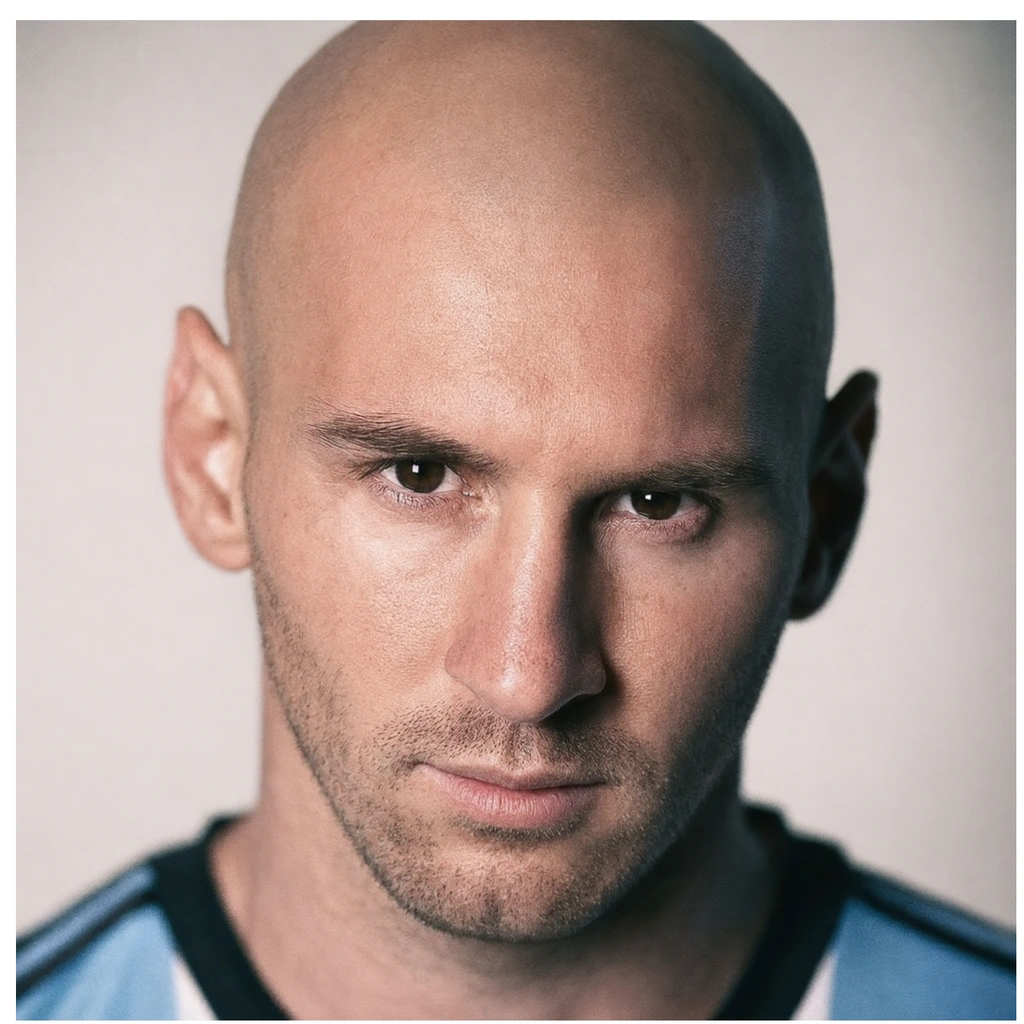
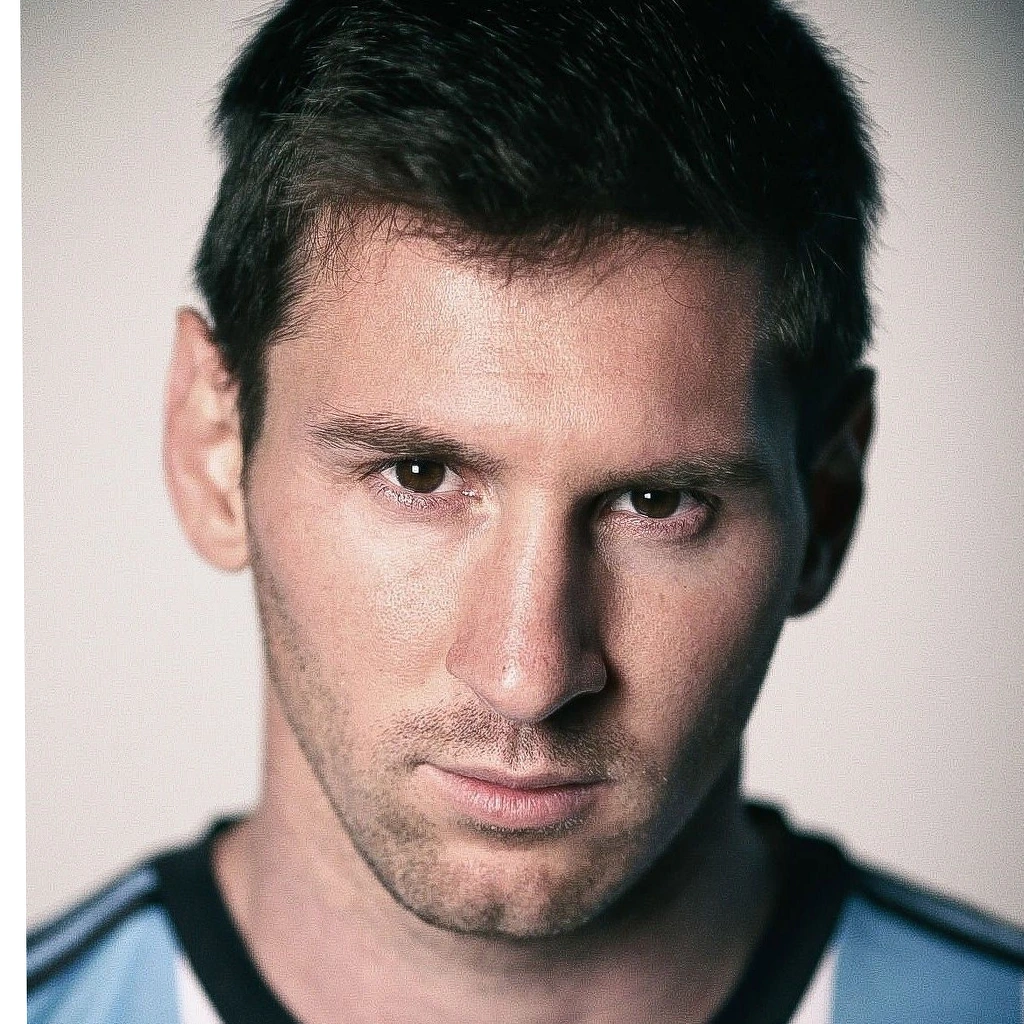
Restore Messi original input portrait and make viewer UI English

diff --git a/index.html b/index.html
@@ -9,10 +9,10 @@
   <link rel="icon" href="favicon.svg" type="image/svg+xml">
   <link rel="stylesheet" href="styles.css?v=viewer-recovery7">
   <link rel="stylesheet" href="assets/showcase/showcase.css?v=card-caption4">
-  <script type="module" src="assets/showcase/showcase.js?v=priority-collections-1"></script>
+  <script type="module" src="assets/showcase/showcase.js?v=english-messi-1"></script>
   <link rel="preload" href="assets/cases/case-02/input.webp" as="image">
   <script src="site-config.js" defer></script>
-  <script src="app.js?v=viewer-recovery7" defer></script>
+  <script src="app.js?v=english-messi-1" defer></script>
 </head>
 <body id="top" class="calibration-page">
   <a class="skip-link" href="#main">Skip to content</a>
@@ -94,7 +94,7 @@
       <div class="asset-strip"><div id="assetCases" class="asset-cases" role="group" aria-label="Select 3D model"></div></div>
       <div class="asset-layout">
         <div class="viewer-column">
-          <div class="pane-title"><div class="renderer-switch" role="group" aria-label="Rendering mode"><button type="button" data-render-mode="pathtraced" aria-pressed="true" title="Progressive path tracing">PT</button><button type="button" data-render-mode="raster" aria-pressed="false" title="Real-time raster rendering">实时渲染</button></div><div class="viewer-heading-actions"><strong id="paneRendererTitle">路径追踪 PT</strong><button id="reloadViewer" title="Reload the current model, textures and renderer while keeping the view">↻ Reload viewer</button></div></div>
+          <div class="pane-title"><div class="renderer-switch" role="group" aria-label="Rendering mode"><button type="button" data-render-mode="pathtraced" aria-pressed="true" title="Progressive path tracing">PT</button><button type="button" data-render-mode="raster" aria-pressed="false" title="Real-time raster rendering">Real-time</button></div><div class="viewer-heading-actions"><strong id="paneRendererTitle">Path tracing · PT</strong><button id="reloadViewer" title="Reload the current model, textures and renderer while keeping the view">↻ Reload viewer</button></div></div>
           <div id="viewerFrame" class="viewer-frame" data-state="idle">
             <div class="viewer-top"><span class="viewer-badge"><span class="status-dot"></span><span id="viewerTitle">Case 02</span></span><span id="renderModeBadge" class="viewer-badge">PROGRESSIVE / PT</span></div>
             <div id="viewerCanvas" class="viewer-canvas" role="img" aria-label="Interactive 3D face. Drag to orbit, pinch or scroll to zoom. Arrow keys rotate the model, plus and minus zoom." tabindex="0"></div>
@@ -103,14 +103,14 @@
           </div>
           <div class="material-modes" role="group" aria-label="3D material mode"><button data-material="full" aria-pressed="true"><span class="material-dot color-dot"></span>Appearance</button><button data-material="geometry" aria-pressed="false"><span class="material-dot gray-dot"></span>Gray geometry</button><button data-material="wireframe" aria-pressed="false"><span class="material-dot wire-dot"></span>Wireframe</button></div>
           <div class="environment-panel">
-            <div class="environment-heading"><span class="mono-label">LIGHTING / 光照环境</span><span id="environmentStatus" class="environment-status">原始输入光照</span></div>
+            <div class="environment-heading"><span class="mono-label">LIGHTING</span><span id="environmentStatus" class="environment-status">Source lighting</span></div>
             <div id="environmentOptions" class="environment-options" role="group" aria-label="Lighting environment">
-              <button type="button" class="environment-option source-option" data-environment="source" aria-pressed="true"><span class="environment-swatch source-swatch" aria-hidden="true"><span></span></span><span class="environment-name">原始光照<small>Blender 输入</small></span></button>
+              <button type="button" class="environment-option source-option" data-environment="source" aria-pressed="true"><span class="environment-swatch source-swatch" aria-hidden="true"><span></span></span><span class="environment-name">Source lighting<small>Blender source</small></span></button>
             </div>
             <div id="environmentAdjust" class="environment-adjust" hidden>
-              <label for="environmentIntensity">强度 <output id="environmentIntensityValue">1.0×</output></label>
+              <label for="environmentIntensity">Intensity <output id="environmentIntensityValue">1.0×</output></label>
               <input id="environmentIntensity" type="range" min="0" max="3" step="0.05" value="1">
-              <label for="environmentRotation">旋转 <output id="environmentRotationValue">0°</output></label>
+              <label for="environmentRotation">Rotation <output id="environmentRotationValue">0°</output></label>
               <input id="environmentRotation" type="range" min="-180" max="180" step="5" value="0">
             </div>
           </div>
@@ -119,12 +119,12 @@
           <p id="sourceViewStatus" class="viewer-note">Switch between PT and real-time rendering without changing the camera.</p>
         </div>
         <aside class="input-photo-column">
-          <div class="input-photo-heading"><span>INPUT PORTRAIT</span><strong>角色输入</strong></div>
+          <div class="input-photo-heading"><span>INPUT PORTRAIT</span><strong>Source portrait</strong></div>
           <figure class="input-photo"><img id="assetInput" src="assets/cases/case-02/input.webp" alt="Case 02 source portrait" loading="lazy"><figcaption><span id="assetInputLabel">Case 02</span><span>Original input</span></figcaption></figure>
         </aside>
       </div>
-      <details class="disclosure fidelity-disclosure"><summary><span>Inherited parameters & remaining differences / 继承与限制</span><small>Read before judging a match</small></summary><div class="disclosure-body"><p>相机矩阵、原始尺寸、World、面光源、贴图与颜色管理来自 scene.json。实时模式不包含 PT 的全局光照与追踪阴影；圆盘面光源在实时模式中采用矩形 LTC 近似。源文件 SSS 权重为 0，保持关闭；眼睛独立 Coat IOR 尚不能等价表达。线框模式始终使用光栅化。</p><p>光照环境默认使用原始输入光照；选择 HDRI 后，由该环境贴图独立照明（原始 World 与面光源暂时隐藏），可随时切回。HDRI 来自本地素材库 D:\HDRI Sky，已降采样为 1K 网页版；PT 与实时渲染均支持切换，实时模式对 HDRI 高光采用近似采样。</p><pre id="fidelityNotes">Select a case to inspect its source notes.</pre></div></details>
-      <details class="disclosure export-disclosure"><summary><span>Collection status / 角色资产状态</span><small>61 ready</small></summary><div class="disclosure-body"><p>61 个角色均使用最后交接场景导出的压缩模型，可在 PT 和实时渲染之间切换。每个角色保留独立的相机、灯光、眼球和最终材质。</p><p>网页渲染与 Blender Cycles 仍存在着色和光照实现差异；最终离线效果请查看上方 Case Explorer 的 Render 图。</p></div></details>
+      <details class="disclosure fidelity-disclosure"><summary><span>Inherited parameters &amp; remaining differences</span><small>Read before judging a match</small></summary><div class="disclosure-body"><p>Camera transforms, original scale, world lighting, area lights, textures and color management come from the source scene. Real-time rendering does not include path-traced global illumination or shadows; disk area lights use a rectangular LTC approximation. Subsurface scattering remains disabled, matching the source. The eyes use an approximation for the separate coat IOR. Wireframe always uses raster rendering.</p><p>Source lighting is enabled by default. Selecting an HDRI replaces the source world and area lights with the selected environment; switch back at any time. The web environments use 1K maps. Both PT and real-time rendering support them, with approximate HDRI highlights in real-time mode.</p><pre id="fidelityNotes">Select a case to inspect its source notes.</pre></div></details>
+      <details class="disclosure export-disclosure"><summary><span>Collection status</span><small>61 ready</small></summary><div class="disclosure-body"><p>All 61 cases use compressed models exported from the final source scenes and support both PT and real-time rendering. Each retains its own camera, lighting, eyes and materials.</p><p>Browser rendering and Blender Cycles differ in shading and lighting. For the final offline result, select Render in the case collection above.</p></div></details>
     </section>
     <section id="method" class="section container">
       <div class="section-heading"><div><p class="eyebrow"><span class="section-index">03</span> METHOD</p><h2>The idea,<br>in three steps<span class="red">.</span></h2></div><p>A high-level illustration of the project. The final method figure and paper description have not yet been supplied.</p></div>

diff --git a/app.js b/app.js
@@ -140,7 +140,7 @@ function syncRenderControls() {
   document.querySelectorAll('.renderer-switch button').forEach(button => button.setAttribute('aria-pressed', String(button.dataset.renderMode === selectedRenderMode)));
   const wire = selectedMaterial === 'wireframe';
   $('#renderModeBadge').textContent = wire ? 'WIREFRAME / RASTER' : selectedRenderMode === 'pathtraced' ? 'PROGRESSIVE / PT' : 'REAL-TIME / RASTER';
-  $('#paneRendererTitle').textContent = wire ? '线框 / Raster' : selectedRenderMode === 'pathtraced' ? '路径追踪 PT' : '实时渲染 Raster';
+  $('#paneRendererTitle').textContent = wire ? 'Wireframe / Raster' : selectedRenderMode === 'pathtraced' ? 'Path tracing · PT' : 'Real-time / Raster';
 }
 function showSceneReport() {
   const report = viewer?.getReport();
@@ -291,7 +291,7 @@ let environmentBusy = false;
 function syncEnvironmentControls() {
   document.querySelectorAll('.environment-option').forEach(button => button.setAttribute('aria-pressed', String(button.dataset.environment === selectedEnvironment)));
   const entry = environments.find(item => item.id === selectedEnvironment);
-  $('#environmentStatus').textContent = selectedEnvironment === 'source' ? '原始输入光照' : `${entry?.zh || entry?.name || selectedEnvironment} · HDRI`;
+  $('#environmentStatus').textContent = selectedEnvironment === 'source' ? 'Source lighting' : `${entry?.name || selectedEnvironment} · HDRI`;
   $('#environmentAdjust').hidden = selectedEnvironment === 'source';
   if (entry && selectedEnvironment !== 'source') {
     $('#environmentIntensity').value = entry.intensity;
@@ -313,7 +313,7 @@ async function selectEnvironment(id) {
   } catch (error) {
     selectedEnvironment = previous;
     syncEnvironmentControls();
-    notify(`光照切换失败：${error.message}`);
+    notify(`Lighting change failed: ${error.message}`);
   } finally { environmentBusy = false; }
 }
 async function initializeEnvironments() {
@@ -327,13 +327,13 @@ async function initializeEnvironments() {
       button.type = 'button'; button.className = 'environment-option';
       button.dataset.environment = entry.id;
       button.setAttribute('aria-pressed', 'false');
-      button.setAttribute('aria-label', `使用 ${entry.zh} HDRI 光照`);
+      button.setAttribute('aria-label', `Use ${entry.name} HDRI lighting`);
       const swatch = document.createElement('span'); swatch.className = 'environment-swatch';
       const image = new Image(); image.src = entry.thumb; image.alt = ''; image.loading = 'lazy';
       swatch.append(image);
       const name = document.createElement('span'); name.className = 'environment-name';
-      name.textContent = entry.zh;
-      const detail = document.createElement('small'); detail.textContent = entry.name;
+      name.textContent = entry.name;
+      const detail = document.createElement('small'); detail.textContent = 'HDRI';
       name.append(detail);
       button.append(swatch, name);
       button.addEventListener('click', () => selectEnvironment(entry.id));
@@ -342,7 +342,7 @@ async function initializeEnvironments() {
     container.querySelector('[data-environment="source"]').addEventListener('click', () => selectEnvironment('source'));
     syncEnvironmentControls();
   } catch (error) {
-    $('#environmentStatus').textContent = 'HDRI 清单加载失败';
+    $('#environmentStatus').textContent = 'Could not load HDRI list';
     console.error('HDRI manifest failed:', error);
   } finally { resolveEnvironmentsReady(); }
 }
